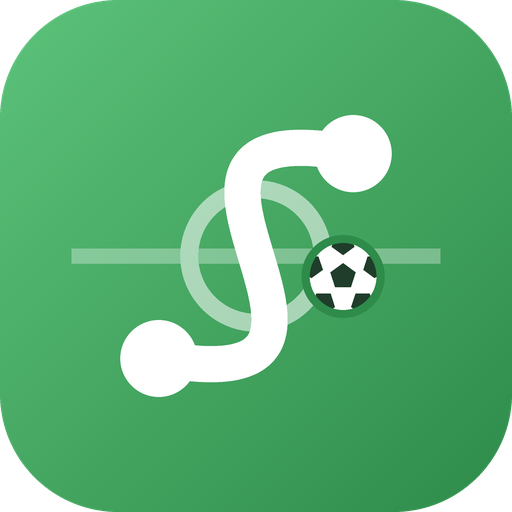
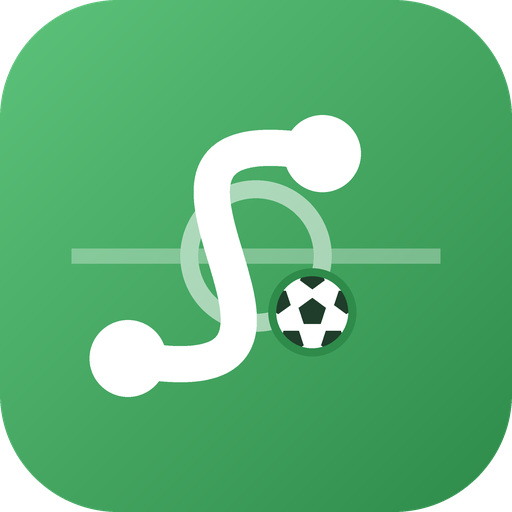
[update] アイコン：ボールは Q に見える右下（45°）のまま、S を少し左に置いてボールにかからないように

Changed region(s): [[0.1562, 0.2188, 0.7812, 0.7812]]

diff --git a/tools/icon.py b/tools/icon.py
@@ -4,7 +4,7 @@
 おくるん（OQRN）のアイコンと同じ角の丸い四角に、ピッチの緑のグラデーション。
 中は、白い S 字の作戦の線（パスの通り道）と、その両端の選手2人。後ろにうっすらピッチの線（ハーフウェーラインとセンターサークル）。
 S 字は「さくせん（SAQSEN）」の S も兼ねる。作戦盤の線と同じく矢印は付けない。
-センターサークルの右・少し下（S の線にかからない角度）にサッカーボールを置き、サークル（輪）＋ボール（しっぽ）で Q にも見せる（SAQSEN の Q）。ロゴでは右下（45°）。
+センターサークルの右下にサッカーボールを置き、サークル（輪）＋ボール（しっぽ）で Q にも見せる（SAQSEN の Q）。
 
   icon.svg             … ファビコン
   apple-touch-icon.png … iPhone のホーム画面（180px）
@@ -28,13 +28,13 @@ WHITE = (255, 255, 255)
 # 形（100 × 100 の座標）
 RADIUS = 23  # 角の丸み（おくるんと同じ）
 # S 字（3次ベジェ1本）：インテグラル（∫）のような細身の S。右上の選手から左へ出て、まん中をすっと下り、下で左へ流れて左下の選手へ
-S_PATHS = (((69, 30), (16, 20), (84, 80), (31, 70)),)
+S_PATHS = (((63, 30), (10, 20), (78, 80), (25, 70)),)  # 右下のボール（Q のしっぽ）にかからないよう、少し左に置く
 S_WIDTH = 7
 PLAYER_R = 7.5
 FAINT = 0.32  # ピッチの線の濃さ
 CIRCLE = (50, 50, 13)  # センターサークル（中心 x, y, 半径）
 CIRCLE_ALPHA = 0.55  # サークルはハーフウェーラインより濃く（ボールと合わせて Q に見せる）
-BALL = (67, 54, 6.5)  # ボール：サークルの右・少し下（約 13°）のふち＝Q のしっぽ。S の線にかからない角度
+BALL = (61, 61, 7)  # ボール：サークルの右下（45°）のふちに重ねる＝Q のしっぽ
 BALL_INK = (31, 61, 42)  # ボールの模様
 
 

diff --git a/README.md b/README.md
@@ -2,7 +2,7 @@
 
 サッカー・フットサルのスタメン発表・作戦盤・試合結果のツール。名前は「さくせん盤」（英字は SAQSEN。おくるん＝OQRN と同じ作り方）。ふだん見せるのはひらがなの「さくせん盤」、英字は見出しの下の小さな文字やロゴに使う。送るカードはおくるんで作る。
 
-アイコン（`icon.svg`・`apple-touch-icon.png`・`icon-512.png`）は `python3 tools/icon.py` で作る：おくるんと同じ角の丸い四角に、ピッチの緑。白い S 字の作戦の線（インテグラル ∫ のような細身の S。パスの通り道で、さくせんの S）と両端の選手2人、うっすらピッチの線。センターサークルの右・少し下（S の線にかからない角度）にサッカーボールを置き、サークル＋ボールで Q にも見せる（SAQSEN の Q）。
+アイコン（`icon.svg`・`apple-touch-icon.png`・`icon-512.png`）は `python3 tools/icon.py` で作る：おくるんと同じ角の丸い四角に、ピッチの緑。白い S 字の作戦の線（インテグラル ∫ のような細身の S。パスの通り道で、さくせんの S）と両端の選手2人、うっすらピッチの線。センターサークルの右下にサッカーボールを置き、サークル＋ボールで Q にも見せる（SAQSEN の Q）。
 
 横長のロゴ（`logo.svg`）も同じスクリプトで作る：ピッチ（盤）の上に「SAQSEN」を白い字で並べ、S はアイコンと同じ線の S、Q はセンターサークル（ハーフウェーラインの真ん中）＋右下のボール。見出しの下に出す。
 
